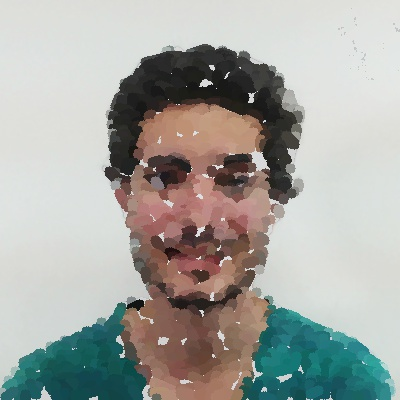
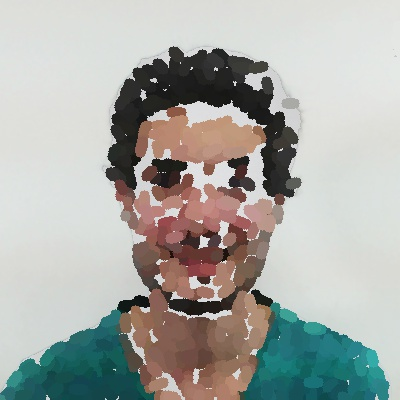
non maximum suppresion

diff --git a/VisualFeedback/VisualFeedback/ColorFeedback.cpp b/VisualFeedback/VisualFeedback/ColorFeedback.cpp
@@ -15,10 +15,59 @@ void rgb2cmyk(const Vec3b bgr, int * cmyk) {
 	cmyk[3] = k * 255.;
 }
 
-void colorDiffer(const Mat target, Mat detect, vector<Point> & drawPoints, float iteration) {
+void nonMaximaSuppression(const Mat& src, const int sz, Mat& dst, const Mat mask) {
+
+	// initialise the block mask and destination
+	const int M = src.rows;
+	const int N = src.cols;
+	const bool masked = !mask.empty();
+	Mat block = 255 * Mat_<uint8_t>::ones(Size(2 * sz + 1, 2 * sz + 1));
+	dst = Mat_<uint8_t>::zeros(src.size());
+
+	// iterate over image blocks
+	for (int m = 0; m < M; m += sz + 1) {
+		for (int n = 0; n < N; n += sz + 1) {
+			Point  ijmax;
+			double vcmax, vnmax;
+
+			// get the maximal candidate within the block
+			Range ic(m, min(m + sz + 1, M));
+			Range jc(n, min(n + sz + 1, N));
+			minMaxLoc(src(ic, jc), NULL, &vcmax, NULL, &ijmax, masked ? mask(ic, jc) : noArray());
+			Point cc = ijmax + Point(jc.start, ic.start);
+
+			// search the neighbours centered around the candidate for the true maxima
+			Range in(max(cc.y - sz, 0), min(cc.y + sz + 1, M));
+			Range jn(max(cc.x - sz, 0), min(cc.x + sz + 1, N));
+
+			// mask out the block whose maxima we already know
+			Mat_<uint8_t> blockmask;
+			block(Range(0, in.size()), Range(0, jn.size())).copyTo(blockmask);
+			Range iis(ic.start - in.start, min(ic.start - in.start + sz + 1, in.size()));
+			Range jis(jc.start - jn.start, min(jc.start - jn.start + sz + 1, jn.size()));
+			blockmask(iis, jis) = Mat_<uint8_t>::zeros(Size(jis.size(), iis.size()));
+
+			minMaxLoc(src(in, jn), NULL, &vnmax, NULL, &ijmax, masked ? mask(in, jn).mul(blockmask) : blockmask);
+			Point cn = ijmax + Point(jn.start, in.start);
+
+			// if the block centre is also the neighbour centre, then it's a local maxima
+			if (vcmax > vnmax) {
+				dst.at<uint8_t>(cc.y, cc.x) = 255;
+			}
+		}
+	}
+}
+
+
+void colorDiffer(const Mat target, Mat detect, vector<pair <Point, float>> & drawPoints, float iteration) {
+	//vector<pair <Point, float>> drawPoints;
 
 	// rgb to cmyk
-	Mat differMap = target.clone();
+	Mat differImage = target.clone();
+	Mat differMap = Mat(target.rows, target.cols, CV_8UC1);
+	differMap.setTo(0);
+
+	// Compute Difference 
 	for (int y = 0; y < target.rows; y++) {
 		for (int x = 0; x < target.cols; x++) {
 			int targetCMYK[4];
@@ -27,16 +76,38 @@ void colorDiffer(const Mat target, Mat detect, vector<Point> & drawPoints, float
 			rgb2cmyk(detect.at<Vec3b>(y, x), detectCMYK);
 			ArrayXXf differ(1, 4);
 			differ << abs(targetCMYK[0] - detectCMYK[0]), abs(targetCMYK[1] - detectCMYK[1]), abs(targetCMYK[2] - detectCMYK[2]), abs(targetCMYK[3] - detectCMYK[3]);
-			if (differ.maxCoeff() > DRAWTHRESH / iteration){
-				circle(differMap, Point(x, y), 0, Scalar(0, 0, differ.maxCoeff()));
-				drawPoints.push_back(Point(x, y));
+			float maxDiffer = differ.maxCoeff();
+			differMap.at<uchar>(y, x) = (uchar)maxDiffer;
+			if (maxDiffer > DRAWTHRESH / iteration){
+				circle(differImage, Point(x, y), 0, Scalar(0, 0, maxDiffer));
+				//drawPoints.push_back(make_pair(Point(x, y), maxDiffer));
 			}
 			else if (iteration == 1){
 				detect.at<Vec3b>(y, x) = target.at<Vec3b>(y, x);
 			}
 		}
 	}
-	cout << "Number of total draw points: " << drawPoints.size() << endl;
-	ShowImg("", differMap);
+	ShowImg("differMap", differMap);
 
+	// Non maximun suppresion
+	Mat mask = (differMap > DRAWTHRESH / iteration);	// only look for local maxima above the value of 1
+	ShowImg("mask", mask);
+	// find the local maxima with a window of 50
+	Mat maxima;
+	nonMaximaSuppression(differMap, 1, maxima, mask);
+	// optionally set all non-maxima to zero
+	differMap.setTo(0, maxima == 0);
+	ShowImg("random", differMap);
+
+	for (int y = 0; y < target.rows; y++) {
+		for (int x = 0; x < target.cols; x++) {
+			if ((float)differMap.at<uchar>(y, x) != 0.0)
+				//cout << (float)differMap.at<uchar>(y, x) << endl;
+				drawPoints.push_back(make_pair(Point(x, y), (float)differMap.at<uchar>(y, x)));
+		}
+	}
+	sort(drawPoints.begin(), drawPoints.end(), ColorDifferenceCompare);
+
+	cout << "Number of total draw points: " << drawPoints.size() << endl;
+	ShowImg("", differImage);
 }

diff --git a/VisualFeedback/VisualFeedback/StrokesGeneration.cpp b/VisualFeedback/VisualFeedback/StrokesGeneration.cpp
@@ -58,16 +58,20 @@ void EMapConstruct(Mat img, Mat & edgeMap, Mat & angles){
 #endif
 }
 
-void StrokesGeneration(const Mat img, Mat & canvas, const vector<Point> drawPoints, const Mat edgeMap, const Mat angles, float iteration){
+void StrokesGeneration(const Mat img, Mat & canvas, const vector<pair <Point, float>> drawPoints, const Mat edgeMap, const Mat angles, float iteration){
 
 	int num = 0;
+	
 	// Draw on canvas
 	for (int i = 0; i < drawPoints.size(); i++){
-		int seed = rand() % int(SAMPLEFREQ * iteration);
-		if (seed % int(SAMPLEFREQ * iteration) - 1 == 1){
+		//float p = drawPoints[i].second / 255.0;
+		//float sp = (double)rand() / (RAND_MAX);
+		//int seed = rand() % int(SAMPLEFREQ * iteration);
+		//if (seed % int(SAMPLEFREQ * iteration) - 1 == 1){
+		//if (1){//sp < p){
 			num += 1;
-			int x = drawPoints[i].x;
-			int y = drawPoints[i].y;
+			int x = drawPoints[i].first.x;
+			int y = drawPoints[i].first.y;
 			Scalar color = img.at<Vec3b>(y, x);
 			float angle = angles.at<float>(y, x) + PI / 2;
 			Stroke stroke(color, Point2f(x, y), 10.0/iteration, angle, 10.0);
@@ -76,7 +80,6 @@ void StrokesGeneration(const Mat img, Mat & canvas, const vector<Point> drawPoin
 			imshow("Simulation", canvas);
 			waitKey(10);
 #endif
-		}
 	}
 	cout << "Number of actual draw points: " << num << endl;
 

diff --git a/VisualFeedback/VisualFeedback/FuncDeclaration.h b/VisualFeedback/VisualFeedback/FuncDeclaration.h
@@ -7,21 +7,22 @@ void ColorSeparation();
 void ColorDefinement();
 bool CompareLength(vector<Point>, vector<Point>);
 
+
 // Utility
 string outputFileName(string file_name, int index, string type);
 float BilinearInterplation(float x, float y);
 void ShowImg(string window_name, Mat img);
-
+bool ColorDifferenceCompare(pair <Point, float> c1, pair <Point, float> c2);
 
 // Color Feedback
-void colorDiffer(const Mat target, Mat detect, vector<Point> & drawPoints, float iteration);
+void colorDiffer(const Mat target, Mat detect, vector<pair <Point, float>> & drawPoints, float iteration);
 void rgb2cmyk(const Vec3b bgr, int * cmyk);
 
 // Strokes Generation
 void EMapConstruct(Mat img, Mat & edgeMap, Mat & angles);
 void SobelDetection(Mat src, Mat & grad, Mat & angles);
 void CannyDetection(Mat src, Mat &canny);
-void StrokesGeneration(const Mat img, Mat & canvas, const vector<Point> drawPoints, const Mat edgeMap, const Mat angles, float iteration);
+void StrokesGeneration(const Mat img, Mat & canvas, const vector<pair <Point, float>> drawPoints, const Mat edgeMap, const Mat angles, float iteration);
 
 // Camera Control
 void CaptureFrame(Mat & detectImg);

diff --git a/VisualFeedback/VisualFeedback/Main.cpp b/VisualFeedback/VisualFeedback/Main.cpp
@@ -3,10 +3,11 @@
 
 int main(int argc, const char** argv)
 {	
+
 	//// *********************
 	////     Target color
 	//// *********************
-	Mat colorPatch = imread("color_patch2.jpg");
+	//Mat colorPatch = imread("color_patch2.jpg");
 	//imshow("targetRGB",targetRGB);
 	//waitKey(0);
 
@@ -30,7 +31,7 @@ int main(int argc, const char** argv)
 
 	for (int i = 0; i < ITERATION; i++){
 		// Compute color difference
-		vector<Point> drawPoints;
+		vector<pair <Point, float>> drawPoints;
 		colorDiffer(targetImg, detectImg, drawPoints, i+1);
 
 		// Generate Strokes

diff --git a/VisualFeedback/VisualFeedback/Main.h b/VisualFeedback/VisualFeedback/Main.h
@@ -12,8 +12,11 @@
 #include <opencv2/highgui/highgui_c.h>
 #include <opencv2/imgproc/imgproc.hpp>
 #include <opencv2/imgproc/types_c.h>
+#include <opencv2/core/core.hpp>
+#include <limits>
 #include <time.h> 
 #include <conio.h>
+#include <stdint.h>
 #include <opencv2/opencv.hpp>
 #include <Eigen/Dense>
 using namespace Eigen;

diff --git a/VisualFeedback/VisualFeedback/Utility.cpp b/VisualFeedback/VisualFeedback/Utility.cpp
@@ -1,4 +1,9 @@
 #include "FuncDeclaration.h"
+bool ColorDifferenceCompare(pair <Point, float> c1, pair <Point, float> c2) {
+	float i = c1.second;
+	float j = c2.second;
+	return (i > j);
+}
 
 bool CompareLength(vector<Point> contour1, vector<Point> contour2) {
 	double i = arcLength(contour1, false);

diff --git a/VisualFeedback/VisualFeedback/nms.hpp b/VisualFeedback/VisualFeedback/nms.hpp
@@ -1,0 +1,7 @@
+#ifndef NMS_HPP_
+#define NMS_HPP_
+#include <opencv2/core/core.hpp>
+void nonMaximaSuppression(const cv::Mat& src, const int sz, cv::Mat& dst, const cv::Mat mask=cv::Mat());
+
+
+#endif /* NMS_HPP_ */
